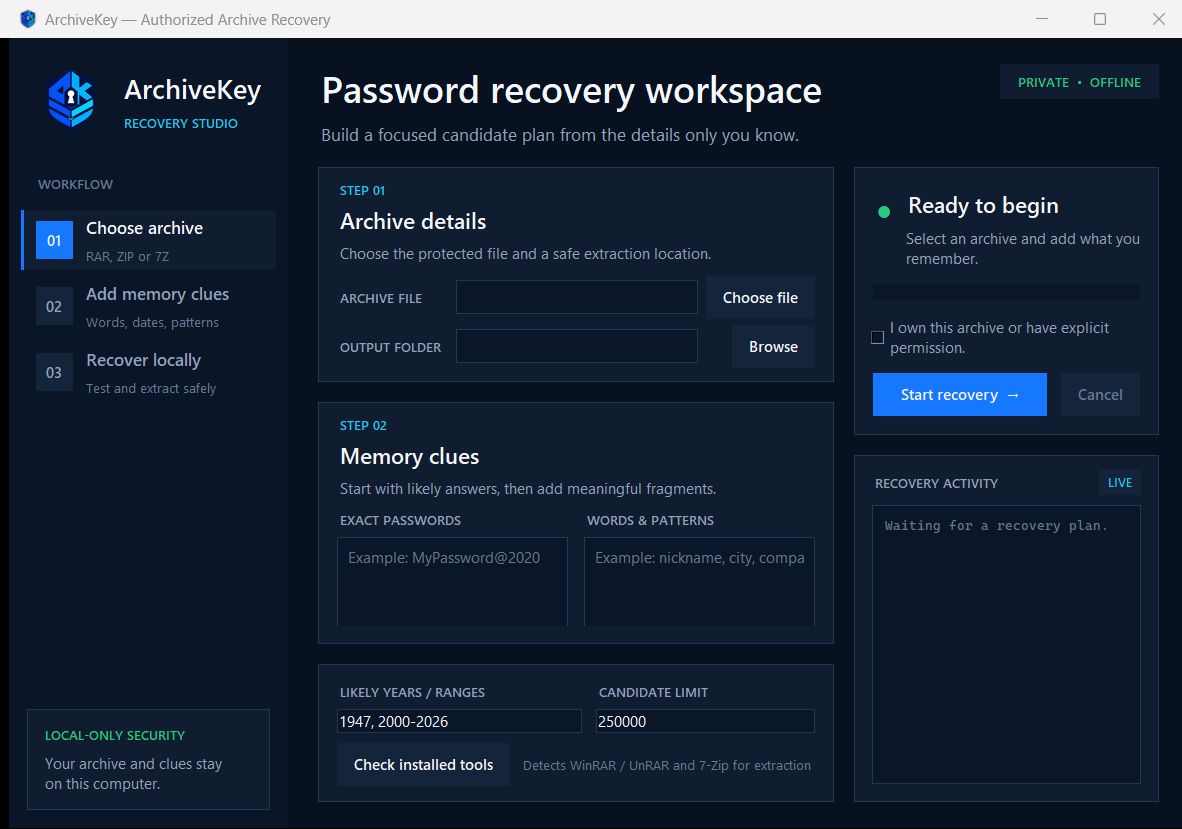
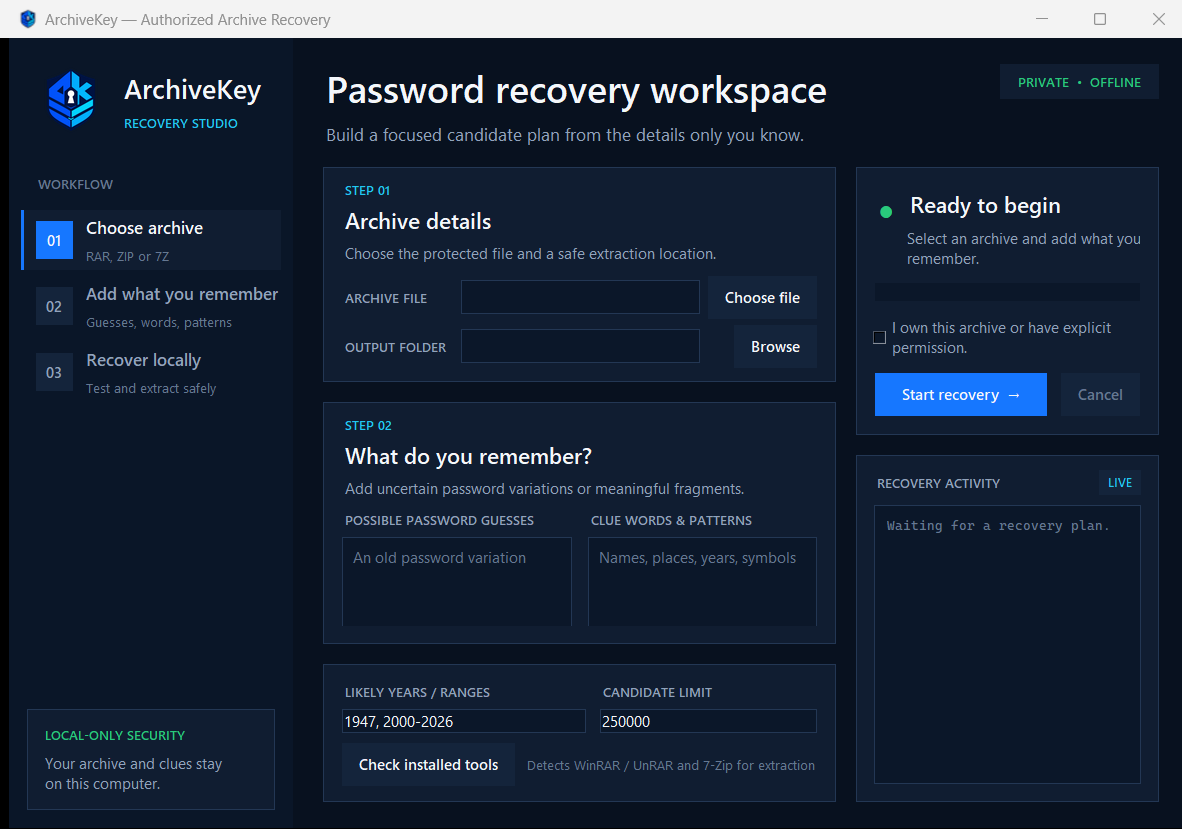
Fix installer wizard and clarify password guesses

diff --git a/app.py b/app.py
@@ -138,7 +138,7 @@ class ArchiveKeyApp(tk.Tk):
         ).pack(anchor="w", padx=26, pady=(0, 12))
 
         self._workflow_step(sidebar, "01", "Choose archive", "RAR, ZIP or 7Z", active=True)
-        self._workflow_step(sidebar, "02", "Add memory clues", "Words, dates, patterns")
+        self._workflow_step(sidebar, "02", "Add what you remember", "Guesses, words, patterns")
         self._workflow_step(sidebar, "03", "Recover locally", "Test and extract safely")
 
         security = tk.Frame(
@@ -307,17 +307,22 @@ class ArchiveKeyApp(tk.Tk):
     def _build_clues_card(self, parent: tk.Widget) -> None:
         card = self._card(parent)
         card.grid(row=1, column=0, sticky="nsew", pady=10)
-        self._section_heading(card, "STEP 02", "Memory clues", "Start with likely answers, then add meaningful fragments.")
+        self._section_heading(
+            card,
+            "STEP 02",
+            "What do you remember?",
+            "Add uncertain password variations or meaningful fragments.",
+        )
         columns = tk.Frame(card, bg=COLORS["surface"])
         columns.pack(fill="both", expand=True, padx=18, pady=(0, 17))
         columns.grid_columnconfigure(0, weight=1, uniform="clues")
         columns.grid_columnconfigure(1, weight=1, uniform="clues")
         columns.grid_rowconfigure(1, weight=1, minsize=96)
 
-        self._field_label(columns, "EXACT PASSWORDS", 0, 0)
-        self._field_label(columns, "WORDS & PATTERNS", 0, 1, padx=(8, 0))
-        self.exact_text = self._text_field(columns, "Example: MyPassword@2020")
-        self.clue_text = self._text_field(columns, "Example: nickname, city, company")
+        self._field_label(columns, "POSSIBLE PASSWORD GUESSES", 0, 0)
+        self._field_label(columns, "CLUE WORDS & PATTERNS", 0, 1, padx=(8, 0))
+        self.exact_text = self._text_field(columns, "An old password variation")
+        self.clue_text = self._text_field(columns, "Names, places, years, symbols")
         self.exact_text.grid(row=1, column=0, sticky="nsew", pady=(6, 0), padx=(0, 8))
         self.clue_text.grid(row=1, column=1, sticky="nsew", pady=(6, 0), padx=(8, 0))
 
@@ -741,7 +746,7 @@ class ArchiveKeyApp(tk.Tk):
                             "Password recovered",
                             f"Password: {result.password}\n"
                             f"Candidates tested: {result.candidates_tested:,}\n"
-                            f"Rule: {result.matched_rule or 'exact/legacy'}\n\n"
+                            f"Rule: {result.matched_rule or 'direct guess/legacy'}\n\n"
                             f"Extracted to:\n{result.output_directory}\n\n"
                             "Open the recovered folder now?",
                         )

diff --git a/archivekey/candidates.py b/archivekey/candidates.py
@@ -7,7 +7,7 @@ from dataclasses import dataclass
 
 
 # Ordered by observed usefulness. These are structural tokens, not a leaked
-# password list. Users can add their own exact values and clues in the UI.
+# password list. Users can add their own possible guesses and clues in the UI.
 COMMON_NUMBERS = ("123", "1234", "786", "1", "12", "007", "000", "111")
 COMMON_SEPARATORS = ("@", "", "_", "-", ".", "#", "!")
 TRAILING_SYMBOLS = ("!", "@", "#", "%", "$", "&", "*", "+", "_")
@@ -96,7 +96,7 @@ def generate_ranked_candidates(
             pool[value] = (score, previous[1], rule)
 
     for index, value in enumerate(_clean_lines(exact)):
-        add(value, -100.0 + index * 0.001, "exact")
+        add(value, -100.0 + index * 0.001, "possible-guess")
 
     bases: list[tuple[str, float, str]] = []
     seen_bases: set[str] = set()

diff --git a/archivekey/engine.py b/archivekey/engine.py
@@ -76,7 +76,7 @@ class RecoveryEngine:
             preview = ", ".join(candidate.value for candidate in ranked_candidates[:5])
             self.log(f"First candidates: {preview}")
         if not ranked_candidates:
-            raise RecoveryError("Add at least one exact password or remembered clue.")
+            raise RecoveryError("Add at least one possible password guess or remembered clue.")
 
         # RAR 5 is verified by ArchiveKey's own PBKDF2 implementation. No John
         # process or per-candidate UnRAR launch is required for this path.
@@ -109,7 +109,7 @@ class RecoveryEngine:
             except Rar5FormatError as exc:
                 self.log(f"Native RAR 5 parsing unavailable ({exc}); using legacy backend.")
 
-        # Exact candidates are cheap to verify for legacy/non-RAR5 formats.
+        # User-supplied guesses are cheap to verify for legacy/non-RAR5 formats.
         for password in config.exact_passwords:
             if self.cancel_event.is_set():
                 return RecoveryResult(None, None, len(candidates), cancelled=True)

diff --git a/archivekey/__init__.py b/archivekey/__init__.py
@@ -1,3 +1,3 @@
 """ArchiveKey Recovery core package."""
 
-__version__ = "0.3.1"
+__version__ = "0.3.3"

diff --git a/README.md b/README.md
@@ -27,7 +27,7 @@ cost = base_cost + template_cost
      + log2(symbol_rank + 2)
 ```
 
-Lower-cost candidates are tested first. Direct clues have the lowest base cost, derived acronyms have a small additional cost, and less common components receive gradually larger logarithmic costs. Exact remembered passwords always come first.
+Lower-cost candidates are tested first. Direct clues have the lowest base cost, derived acronyms have a small additional cost, and less common components receive gradually larger logarithmic costs. A few user-supplied possible password guesses are tested first.
 
 For example, the synthetic clue `United Kingdom` produces direct case variants plus the contextual aliases `UK` and `GB`. The grammar then constructs and scores:
 
@@ -46,7 +46,7 @@ Synthetic regression fixtures verify that high-probability structured candidates
 
 - Native RAR 5 header and file-encryption record parsing
 - Native RAR 5 PBKDF2-HMAC-SHA256 verification
-- Direct testing of exact remembered passwords
+- Direct testing of uncertain password guesses before generated combinations
 - Probability-scored password grammar without leaked-password lists
 - Country/place aliases and acronym generation
 - `stem + separator + number + trailing symbol` rules using synthetic fixtures
@@ -88,7 +88,7 @@ python -m pip install -r requirements-build.txt
 .\build_msi.ps1
 ```
 
-The output is `dist\ArchiveKey-0.3.1-x64.msi`. The build script uses PyInstaller
+The output is `dist\ArchiveKey-0.3.3-x64.msi`. The build script uses PyInstaller
 and downloads the official portable WiX 3.14.1 tools into an ignored local build
 directory through GitHub CLI; those third-party binaries are never committed to
 this repository. Public alpha installers are currently unsigned, so Windows can